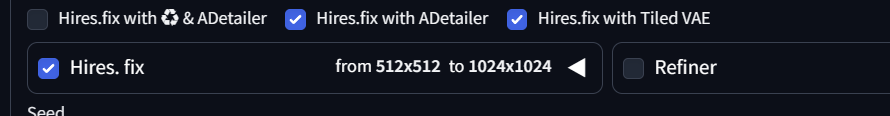
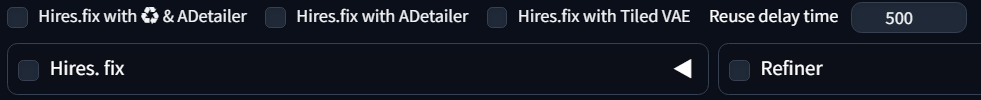
v0.3.0

diff --git a/javascript/reuse-seed-plus.js b/javascript/reuse-seed-plus.js
@@ -1,6 +1,17 @@
+// Seed Reuse Generate button delay time
+function reuseDelayTime() {
+  let reuseDelayTime = 500;
+  const reuseDelayTimeInput = document.getElementById("reuse-seed-delay-time");
+  if (reuseDelayTimeInput) {
+    const reuseDelayTimeInputValue = reuseDelayTimeInput.value;
+    if (parseInt(reuseDelayTimeInputValue) != reuseDelayTime)
+      reuseDelayTime = parseInt(reuseDelayTimeInputValue);
+  }
+  return reuseDelayTime;
+}
+
 // Add Generate Button (🎲, ♻, +1) to txt2img and img2img
 function addButtons(tab) {
-  const reuseDelayTime = 500; // If the seed is not reused, it may be a good idea to increase the delay time.
   const normalDelayTime = 10;
   const generateButton = document.getElementById(`${tab}_generate`);
   const reuseSeedButton = document.getElementById(`${tab}_reuse_seed`);
@@ -42,7 +53,7 @@ function addButtons(tab) {
       `<button id="${reuseGenerateButtonId}" class="${buttonClass}" style="min-width:0;" title="When a seed from the previous generation is available, it is reused to generate">♻</button>`,
       function () {
         reuseSeedButton.click();
-        delayGenerate(reuseDelayTime);
+        delayGenerate(reuseDelayTime());
       }
     )
   );
@@ -96,26 +107,40 @@ function createReuseSeedPlusArea() {
   );
   const settings = document.getElementById("txt2img_settings");
   const accordions = document.getElementById("txt2img_accordions");
+  const adetailerCheckbox =
+    document.querySelector("#script_txt2img_adetailer_ad_enable input") ||
+    document.querySelector(
+      "#script_txt2img_adetailer_ad_main_accordion-visible-checkbox"
+    );
+  const tiledvaeCheckbox = document.getElementById(
+    "MDV-t2i-enabled-visible-checkbox"
+  );
 
   if (!accordions || reuseSeedPlus) return;
 
   const reuseSeedPlusArea = document.createElement("div");
   reuseSeedPlusArea.id = "reuse_seed_plus";
   reuseSeedPlusArea.style =
-    "display: flex; gap: 0.6em 1em; padding: 0.4em 0 0.2em";
+    "display: flex; flex-wrap: wrap; gap: 0.6em 1em; padding: 0.4em 0 0.2em";
 
   // Create checkbox item
   ["rsp_reuse_seed_plus", "rsp_adetailer", "rsp_tiled_vae"].forEach(function (
     idName,
     index
   ) {
+    if (idName === "rsp_adetailer" && !adetailerCheckbox) return;
+    if (idName === "rsp_tiled_vae" && !tiledvaeCheckbox) return;
+
     const labelTitle = [
-      "Enable 'Reuse seed' and 'ADetailer' when enabling Hires.fix",
+      adetailerCheckbox
+        ? "Enable 'Reuse seed' and 'ADetailer' when enabling Hires.fix"
+        : "Enable 'Reuse seed' when enabling Hires.fix",
       "Enable 'ADetailer' when enabling Hires.fix",
       "Enable 'Tiled VAE' when enabling Hires.fix",
     ];
+
     const spanText = [
-      "Hires.fix with ♻ & ADetailer",
+      adetailerCheckbox ? "Hires.fix with ♻ & ADetailer" : "Hires.fix with ♻",
       "Hires.fix with ADetailer",
       "Hires.fix with Tiled VAE",
     ];
@@ -139,6 +164,26 @@ function createReuseSeedPlusArea() {
     reuseSeedPlusArea.appendChild(label);
   });
 
+  reuseSeedPlusArea.innerHTML += `
+    <div>
+      <div class="head svelte-1cl284s">
+        <label title="If the seed was not reused when the Seed Reuse Generate button was used, it is recommended to increase the value">
+          <span data-testid="block-info" style="padding-right: 10px">Reuse delay time</span>
+        </label>
+        <input
+          data-testid="number-input"
+          type="number"
+          min="1"
+          max="5000"
+          step="1"
+          id="reuse-seed-delay-time"
+          class="svelte-1cl284s"
+          value="${reuseDelayTime()}"
+        >
+      </div>
+    </div>
+  `;
+
   if (accordions) {
     settings.insertBefore(reuseSeedPlusArea, accordions);
   }
@@ -159,11 +204,12 @@ function handleHiresFixChange() {
   const tiledVaeToggle = document.querySelector(
     "#reuse_seed_plus #rsp_tiled_vae_toggle" // Use of querySelector for conflict avoidance
   );
-
   // ADetailer
-  const targetCheckbox1 = document.querySelector(
-    "#script_txt2img_adetailer_ad_enable input"
-  );
+  const targetCheckbox1 =
+    document.querySelector("#script_txt2img_adetailer_ad_enable input") ||
+    document.querySelector(
+      "#script_txt2img_adetailer_ad_main_accordion-visible-checkbox"
+    );
   // Tiled VAE
   const targetCheckbox2 = document.getElementById(
     "MDV-t2i-enabled-visible-checkbox"

diff --git a/README.md b/README.md
@@ -8,10 +8,10 @@
 
 ## 機能付き生成ボタンの追加
 
-- txt2img, img2img の画面に三つの機能付き生成ボタンを追加します。
+- txt2img, img2imgの画面に三つの機能付き生成ボタンを追加します。
 - 🎲: ランダムに設定される新たなシードで生成します。
 - ♻: 前回生成時のシードがある場合、シードを再利用して生成します。
-- +1: シードが設定されている場合、シードに 1 を足して生成します。シードが-1 の場合、このボタンは無効化されます。
+- +1: シードが設定されている場合、シードに1を足して生成します。シードが-1の場合、このボタンは無効化されます。
   <br><br>
   <p>
   <img src="images/image1.png" width="300">
@@ -20,13 +20,13 @@
 
 ## Hires.fix 連動機能
 
-- Hires.fix のオン/オフに連動して他の機能のオン/オフを切り替えます。
-- Hires.fix ボタンの上に各機能のチェックボックスが追加されます。
-- Hires.fix with ♻ & ADtailer: チェックボックスがオンの場合、Hires.fix に連動して ♻ (Reuse seed) と ADtailer を切り替えます。
-- Hires.fix with ADtailer: チェックがオンの場合、Hires.fix に連動して ADtailer を切り替えます。
-- Hires.fix with ADtailer: チェックボックスがオンの場合、Hires.fix に連動して Tiled VAE を切り替えます。forge では Tiled VAE が本体に内蔵されており自動適用となるため本機能は無視されます。
-- ADtailer がインストールされていない場合、 ADtailer の操作は無視されます。
-  <br><br>
+- Hires.fixのオン/オフに連動して他の機能のオン/オフを切り替えます。
+- Hires.fixボタンの上に各機能のチェックボックスが追加されます。
+- Hires.fix with ♻ & ADetailer: チェックボックスがオンの場合、Hires.fixに連動して♻(Reuse seed)とADetailerを切り替えます。ADetailerがインストールされていない場合は♻(Reuse seed)のみ連動します。
+- Hires.fix with ADetailer: チェックがオンの場合、Hires.fix に連動してADetailerを切り替えます。ADetailerがインストールされていない場合は非表示となります。
+- Hires.fix with Tiled VAE: チェックボックスがオンの場合、Hires.fix に連動してTiled VAEを切り替えます。Forge及び、Tiled VAEがインストールされていない場合は非表示となります。
+- Reuse delay time: シード再利用生成ボタンを使用した時、シードが再利用されなかった場合はこの値を大きくしてください。初期値は500(msec)です。
+<br><br>
   <p>
   <img src="images/image2.png" width="600">
   </p>
@@ -34,7 +34,7 @@
 
 # インストール方法
 
-AUTOMATIC1111 の Extensions タブをクリック、Install from URL タブをクリックし、URL for extension's git repository に以下の url を入力し Install ボタンをクリックしてください。
+AUTOMATIC1111のExtensionsタブをクリック、Install from URLタブをクリックし、URL for extension's git repositoryに以下のurlを入力しInstallボタンをクリックしてください。
 
 ```
 https://github.com/Takenoko3333/sd-webui-reuse-seed-plus.git
@@ -44,19 +44,28 @@ https://github.com/Takenoko3333/sd-webui-reuse-seed-plus.git
 
 # 変更履歴
 
+## [0.3.0] - 2024-7-28
+
+### 追加, 修正
+
+- ADetailerの仕様変更で連動しない問題を修正
+- 非対応の機能を非表示にする対応
+- シード再利用生成ボタン使用時の遅延時間を変更できる機能を追加
+- READMEの誤字を修正
+
 ## [0.2.0] - 2024-6-8
 
 ### 追加, 修正
 
-- 機能付き生成ボタン (🎲, ♻, +1) を追加
-- Hires.fix 連動機能に'Hires.fix ADtailer', 'Hires.fix with Tiled VAE'を追加
+- 機能付き生成ボタン(🎲, ♻, +1)を追加
+- Hires.fix 連動機能に'Hires.fix ADetailer', 'Hires.fix with Tiled VAE'を追加
 - 文言を修正
 
 ## [0.1.4] - 2024-6-6
 
 ### 修正
 
-- チェックボックスの id を修正
+- チェックボックスのidを修正
 - チェックボックスのセレクターを修正
 
 ## [0.1.3] - 2024-6-6
@@ -69,19 +78,19 @@ https://github.com/Takenoko3333/sd-webui-reuse-seed-plus.git
 
 ### 修正
 
-- css を修正
+- cssを修正
 
 ## [0.1.1] - 2024-6-6
 
 ### 修正
 
-- README を修正
+- READMEを修正
 
 ## [0.1.0] - 2024-6-6
 
 ### 追加
 
-- v0.1.0 リリース
+- v0.1.0リリース
   <br><br>
 
 # ライセンス
@@ -108,12 +117,12 @@ Released under the [MIT License](https://opensource.org/licenses/mit-license.php
 
 ## Hires.fix Integration Feature
 
-- The activation/deactivation of other features will be linked to the Hires.fix toggle.
-- Checkboxes for each feature will be added above the Hires.fix button.
-- Hires.fix with ♻ & ADtailer: If the checkbox is on, toggles ♻ (Reuse seed) and ADtailer in sync with Hires.fix.
-- Hires.fix with ADtailer: If the checkbox is on, toggles ADtailer in sync with Hires.fix.
-- Hires.fix with Tiled VAE: If the checkbox is on, toggles Tiled VAE in sync with Hires.fix. This function is ignored in forge because Tiled VAE is built into the main unit and is applied automatically.
-- If ADtailer is not installed, the ADtailer operation is ignored.
+- The other functions are switched on and off in conjunction with the Hires.fix on/off.
+- A checkbox for each function is added above the Hires.fix button.
+- Hires.fix with ♻ & ADetailer: If the checkbox is on, switches ♻ (Reuse seed) and ADetailer in conjunction with Hires.fix. If ADetailer is not installed, only ♻ (Reuse seed) is linked.
+- Hires.fix with ADetailer: if checked, switches ADetailer in conjunction with Hires.fix; if ADetailer is not installed, it is hidden.
+- Hires.fix with Tiled VAE: if checked, switches Tiled VAE in conjunction with Hires.fix, hidden if Forge and Tiled VAE are not installed.
+- Reuse delay time: increase this value if the seed is not reused when using the Generate Seed Reuse button. The default value is 500 (msec).
   <br><br>
   <p>
   <img src="images/image2.png" width="600">
@@ -132,12 +141,21 @@ https://github.com/Takenoko3333/sd-webui-reuse-seed-plus.git
 
 # Change Log
 
+## [0.3.0] - 2024-7-28
+
+### Additions, Fixes.
+
+- Fixes issues not linked to ADetailer specification changes.
+- Support for hiding unsupported functions.
+- Added function to change the delay time when using the seed reuse generation button
+- Fixed typos in README
+
 ## [0.2.0] - 2024-6-8
 
 ### Add and Fixed
 
 - Added functional generation buttons (🎲, ♻, +1)
-- Added 'Hires.fix ADtailer' and 'Hires.fix with Tiled VAE' to the Hires.fix integration feature
+- Added 'Hires.fix ADetailer' and 'Hires.fix with Tiled VAE' to the Hires.fix integration feature
 - Revised text and wording
 
 # Changelog
